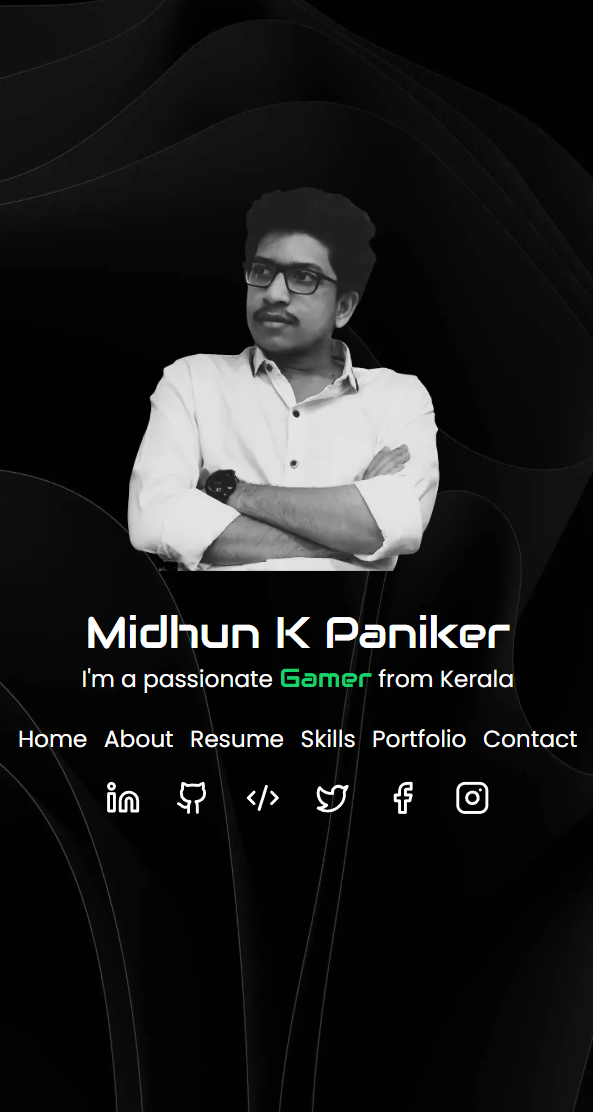
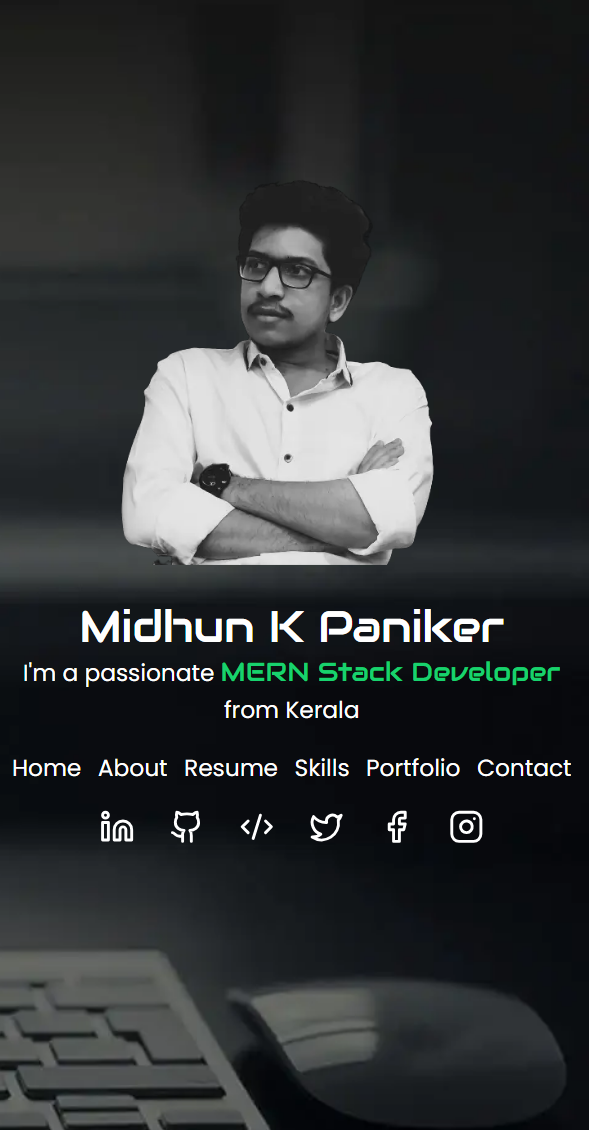
Update : Skills page content added, HomPage small screen bg updated

diff --git a/src/pages/SkillsPage.tsx b/src/pages/SkillsPage.tsx
@@ -1,33 +1,71 @@
 export const SkillsPage = () => {
+
+    const sectionStyle = 'text-white mt-6 text-lg font-semibold';
+    const itemStyle = 'inline-block text-white px-4 py-2 m-1 rounded shadow bg-gray-800';
+
     return (
-        <div>
-        <h1>Skills</h1>
-        <h1>Skills</h1>
-        <h1>Skills</h1>
-        <h1>Skills</h1>
-        <h1>Skills</h1>
-        <h1>Skills</h1>
-        <h1>Skills</h1>
-        <h1>Skills</h1>
-        <h1>Skills</h1>
-        <h1>Skills</h1>
-        <h1>Skills</h1>
-        <h1>Skills</h1>
-        <h1>Skills</h1>
-        <h1>Skills</h1>
-        <h1>Skills</h1>
-        <h1>Skills</h1>
-        <h1>Skills</h1>
-        <h1>Skills</h1>
-        <h1>Skills</h1>
-        <h1>Skills</h1>
-        <h1>Skills</h1>
-        <h1>Skills</h1>
-        <h1>Skills</h1>
-        <h1>Skills</h1>
-        <h1>Skills</h1>
-        <h1>Skills</h1>
-        <h1>Skills</h1>
+        <div className="w-full px-4">
+            <div className="w-full">
+                <h5 className={sectionStyle}>Languages</h5>
+                <ul>
+                    {['JavaScript', 'TypeScript', 'MongoDB', 'C', 'PostgreSQL', 'HTML5', '(S)CSS'].map((lang) => (
+                        <li key={lang} className={itemStyle}>{lang}</li>
+                    ))}
+                </ul>
+
+                <h5 className={sectionStyle}>Libraries & Frameworks</h5>
+                <ul>
+                    {['Node.js', 'Express', 'React', 'Tailwind', 'Bootstrap', 'MUI'].map((lib) => (
+                        <li key={lib} className={itemStyle}>{lib}</li>
+                    ))}
+                </ul>
+
+                <h5 className={sectionStyle}>Tools & Platforms</h5>
+                <ul>
+                    {['Git', 'Postman', 'Jest', 'Render', 'AWS', 'Firebase'].map((tool) => (
+                        <li key={tool} className={itemStyle}>{tool}</li>
+                    ))}
+                </ul>
+
+                <h5 className={sectionStyle}>Design & Prototyping</h5>
+                <ul>
+                    {['Figma', 'Code Planner', 'Photoshop'].map((tool) => (
+                        <li key={tool} className={itemStyle}>{tool}</li>
+                    ))}
+                </ul>
+
+                <h5 className={sectionStyle}>State Management & Architecture</h5>
+                <ul>
+                    {['Context API', 'Redux', 'Zustand'].map((state) => (
+                        <li key={state} className={itemStyle}>{state}</li>
+                    ))}
+                </ul>
+
+                <h5 className={sectionStyle}>Concepts & Models</h5>
+                <ul>
+                    {['MVC Architecture', 'Waterfall Model', 'SOLID Principles'].map((concept) => (
+                        <li key={concept} className={itemStyle}>{concept}</li>
+                    ))}
+                </ul>
+
+                <h5 className={sectionStyle}>Currently Pursuing</h5>
+                <ul>
+                    {[
+                        { name: 'NestJS', hidden: true },
+                        { name: 'Microservices', hidden: true },
+                        { name: 'Clean Architecture', hidden: false },
+                        { name: 'Socket.io', hidden: false },
+                        { name: 'WebRTC', hidden: true },
+                    ].map(({ name, hidden }) => (
+                        <li
+                            key={name}
+                            className={`${itemStyle} ${hidden ? 'hidden' : ''}`}
+                        >
+                            {name}
+                        </li>
+                    ))}
+                </ul>
+            </div>
         </div>
     )
 }

diff --git a/src/pages/homepage.tsx b/src/pages/homepage.tsx
@@ -117,15 +117,7 @@ export const HomePage: React.FC = () => {
 
                         <Image
                             src="/portfolioBg.jpg"
-                            className="w-full h-screen relative hidden md:block"
-                            alt="BackgroundImage"
-                            width={1000}
-                            height={1000}
-                        />
-
-                        <Image
-                            src="/portfoilioPhoneBg.jpg"
-                            className="w-full h-screen relative block md:hidden"
+                            className="w-full h-screen relative object-cover repeat-0 object-top-right"
                             alt="BackgroundImage"
                             width={1000}
                             height={1000}
